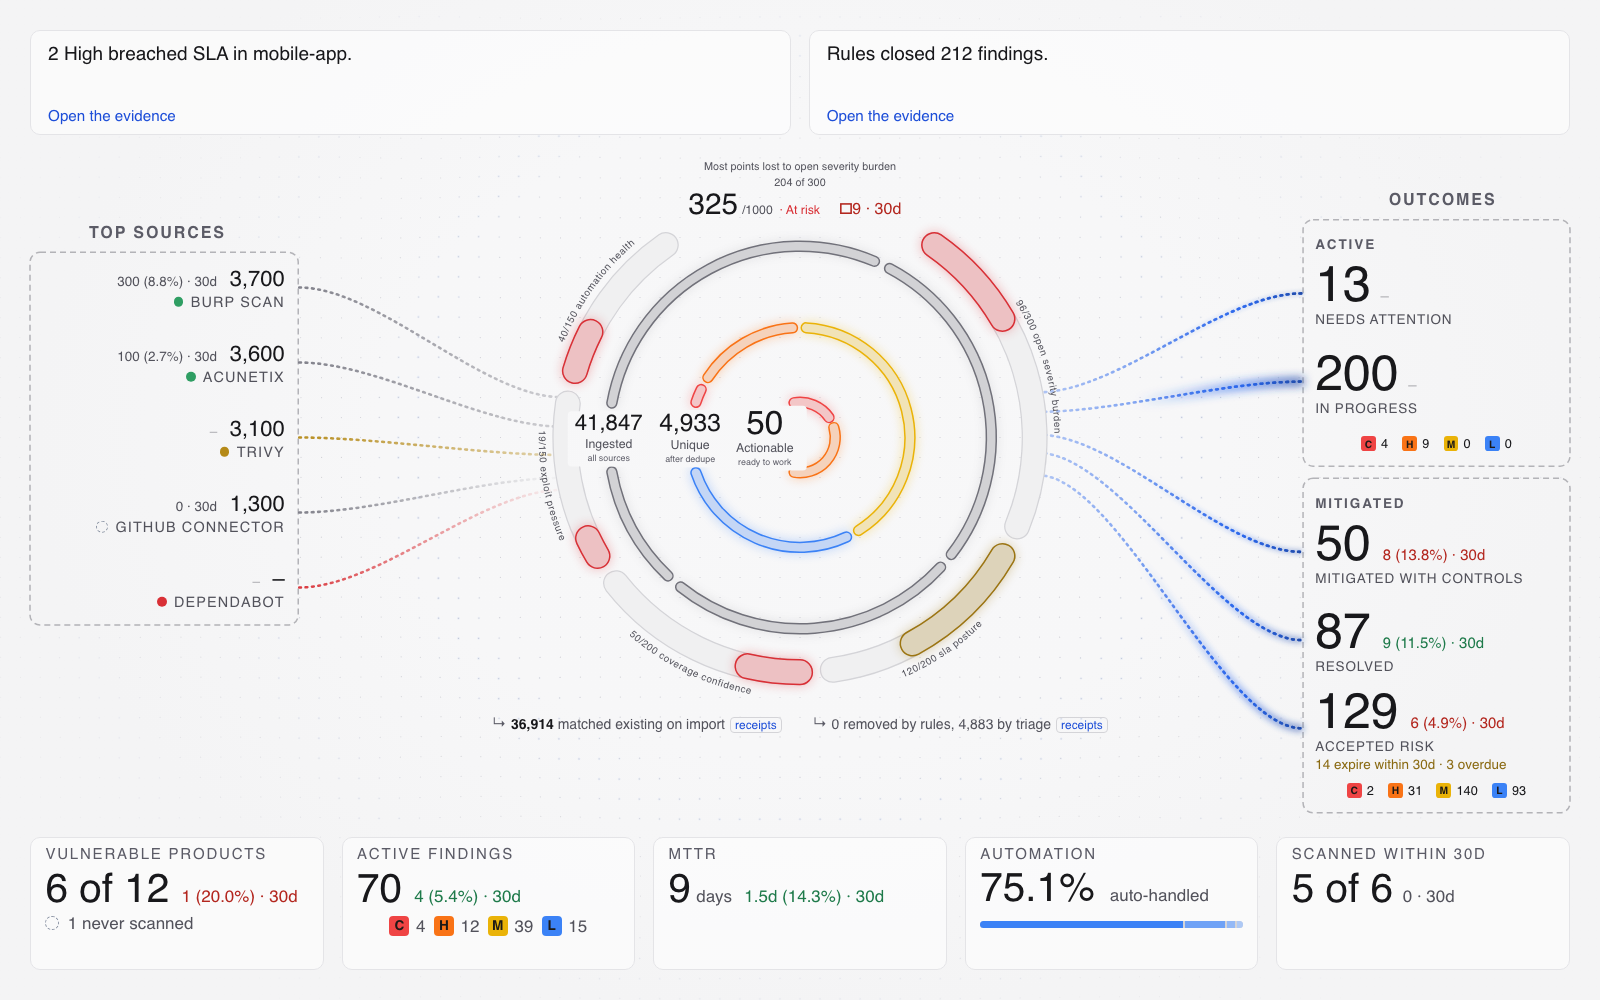
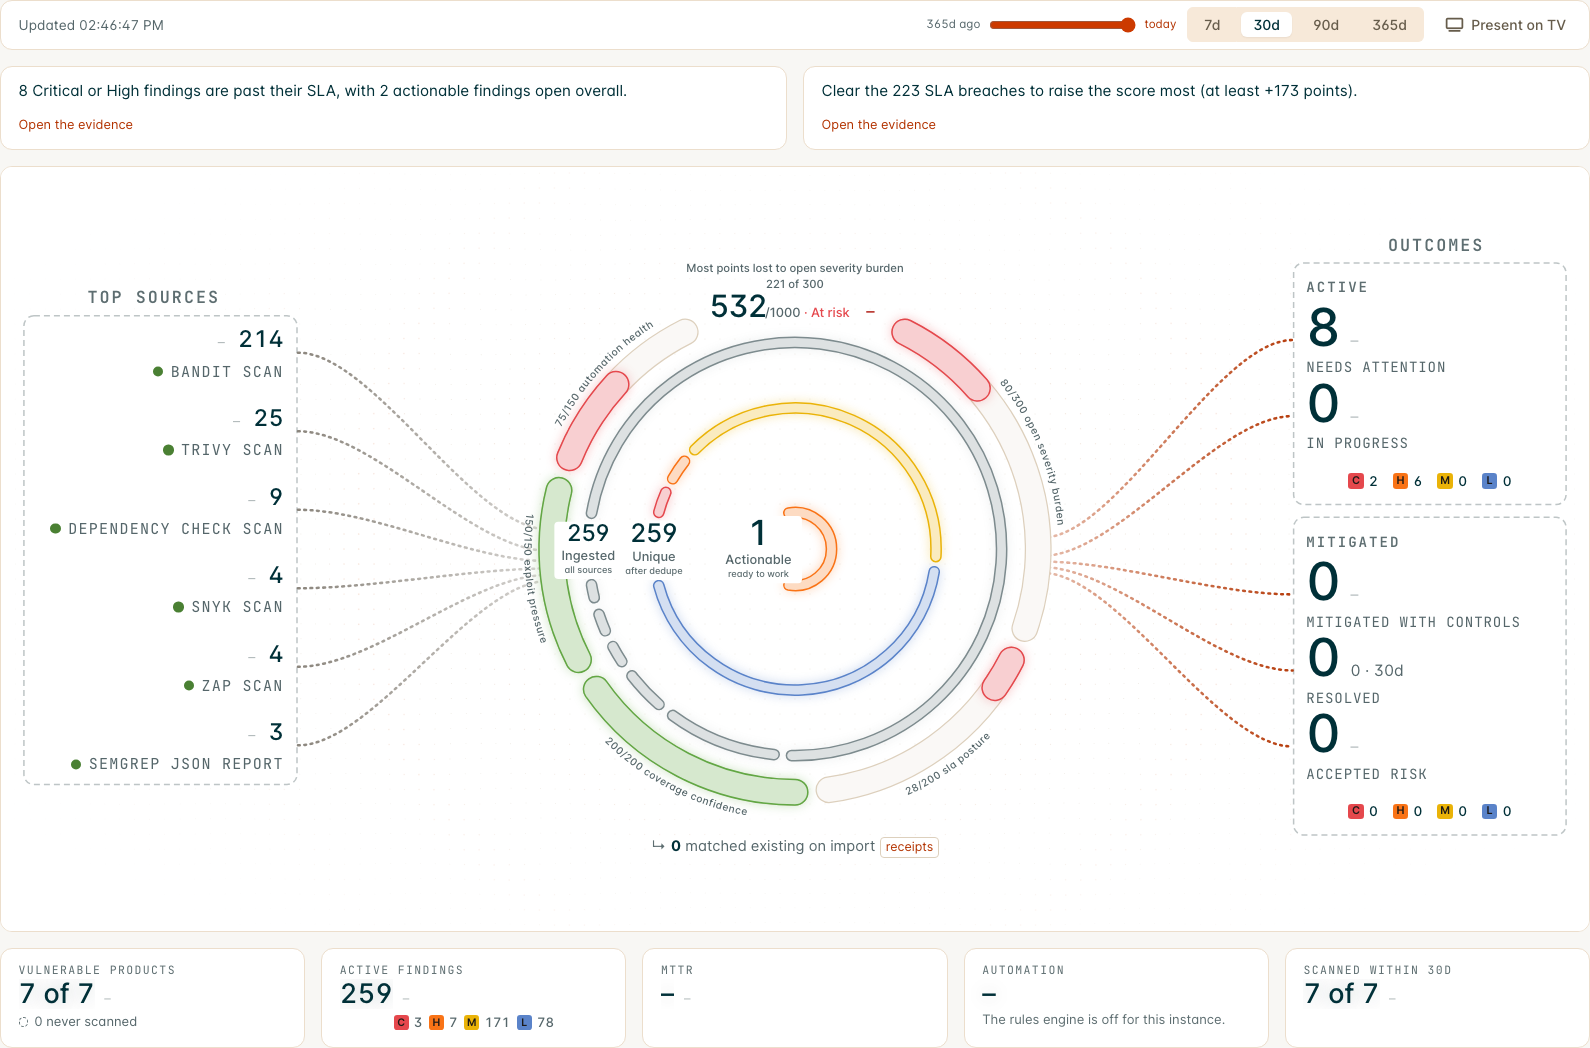
docs(dashboards): Command Center rows and the teal secondary color (#16172)
The Command Center page now shows its controls, brief, scene and strip
as four rows of cards, with the brief sharing its row evenly and both
rails centred on the ring. The screenshot shows the new layout.

The Appearance page now says which colors the primary drives: buttons
and the current nav item on the DefectDojo preset, which draws links,
selection, focus rings and checked controls in its teal secondary; the
Legacy preset keeps the primary on all of them.

diff --git a/docs/content/metrics_reports/dashboards/PRO__command_center.md b/docs/content/metrics_reports/dashboards/PRO__command_center.md
@@ -16,15 +16,15 @@ The Command Center is one composed screen that answers, in fixed zones, **what's
 
 ![The Command Center scene](images/command_center_scene.png)
 
-**Home** is the scene. It is read left to right:
+**Home** is the scene. On the page it is four rows, each a card of its own: the controls (the window, the history scrubber and **Present on TV**), the brief, the scene itself, and the strip. The scene is read left to right, with the sources and the outcomes both centred on the ring:
 
-* **The brief**: up to three grounded sentences as outlined cards across the top of the scene itself, every card a door to its evidence. When nothing changed since the previous snapshot, the row says so.
+* **The brief**: up to three grounded sentences as cards in a row above the scene, sharing the row evenly (one sentence spans it, three split it in thirds), every card a door to its evidence. When nothing changed since the previous snapshot, the row says so.
 * **Sources**: one row per scanner or connector with its volume in the window, its state, and its change against the previous window. Each row stacks its volume over the tool's name, right-aligned to a gap before its ribbon, inside a faint dashed, unfilled box under a bold **Top sources** title (the rail keeps the twelve largest sources and folds the rest into one row), mirroring the two family boxes on the right. Each ribbon is a dashed line of short, rounded dashes, every line the same weight (volume is carried by the beam's glow, below), dim neutral gray on the sources side (raw volume is not a signal), the accent blue on the outcomes side. A source that has stopped reporting draws as dashes that fade along their length; a source whose last run failed fades in the down color, and a source with failed imports draws in the warning color. The screen shows when it is blind rather than letting silence read as clean.
 * **The flow**: three nested rings for **ingested**, **unique after dedupe** and **actionable now**, sized by the square root of their counts so a dominant stage does not blank the others, with the 0 to 1000 [posture score](../posture-score/) as the outer ring. The score ring is split into its five published components, each a band outlined at full strength over a translucent fill (the way the Insights charts draw a bar), gray for the component's full weight and the band color for the points it earned, with the value and its 30-day change on the rim. Each component's caption follows its arc just outside the ring, points earned over weight then its name ("37/300 open severity burden"), so the whole formula reads around the ring. Hovering a sector brings it into focus: it takes more of the ring and its band grows outward while the others give way, and a card beside it says the points it earned and is leaving on the table, the input it was scored on, the move that would raise it most with the points that move is worth, and the formula's own sentence about it. The **Why this score** drawer carries the full breakdown and every lever, and says when it is loading or could not load. The screen carries one continuous motion: a beam through the ribbons, from the sources into the ring and out to the outcomes, the way the data itself moves. The rings beat with it: as the lit window passes through the centre, the score ring, the three flow rings and the ground behind them brighten together and settle as it leaves, so the whole instrument pulses once per pass of the data rather than on a clock of its own. The beam is a lit window that sweeps the stage left to right once every few seconds: as it passes, each line's own dashes brighten (the light end of the neutrals on the sources side, off-white on a dark screen and gray on a light one, and the accent's bright tone on the outcomes side) under a soft glow, then settle back to dim. A line in the warning or down color lights in its own color. Nothing is added to the line; the line itself lights up. Volume is the glow: the line carrying the most on its side burns widest and brightest as the beam passes, a line carrying a tenth of that barely warms, and a source with nothing in the window, or one whose last run failed, carries none. Each ring carries a second line saying what it counts: **all sources**, **after dedupe**, **ready to work**, and each tells a story in arcs around its circumference. The ingested ring divides by source (who fed the window, and how unevenly), in the neutral gray family; hovering a source in the rail lights its arc. The unique ring divides by severity, Critical to Low in the severity colors, so the ring itself shows how much red mass came in new this window. The actionable ring divides by risk band, Urgent then Needs Action, in the instance's risk colors (the same colors as the risk tags and charts elsewhere in the app), so it shows how urgent what is ready to work is. Every arc is a door onto its own slice of the ring's list (that source's findings, new findings of that severity, actionable findings in that band). Hovering an arc brings it into focus the way a score sector does, with a card beside it naming the ring and the slice, the count, its share of the ring and where its door opens; while any segment of any ring is in focus, the other rings stand aside in grey. A ring with nothing to divide draws whole, and a replayed day draws its rings whole because the breakdowns come from the live findings. A ring whose count is zero draws quiet in the track color rather than glowing as if it carried volume, and hovering a source in the rail lights that source's share of the ingested ring as an arc. The score names its band next to the value (Strong, Needs attention, At risk) and, above it, the component costing it the most points. When the scene arrives, and whenever the window, scope or replayed day changes, the counts ease to their values and the rings and ribbons grow into shape rather than jumping (a source that leaves the window counts down and goes, one that arrives counts up, and a window with no imports says so in the sources rail); the beam and the beat it drives are the only continuous motion, and a reduced motion preference snaps the transitions and turns them off.
 * **Receipts**: the two gaps in the flow are itemized under the rings. "Matched existing on import" is the importer's own dedupe and opens the import receipts export; "removed by rules" opens the rules receipts. The rules receipt is shown only when the instance has the rules engine switched on. When the ledgers describe different populations the remainder reads "unattributed", never an invented number.
 * **Automation**: a card in the strip. Its number is the share of work the rules handled; under it, one thin bar divided into a section per rule action the rules engine took in the window (closed, marked duplicate, status changed, updated, created, reopened, notified), each section sized by its count, busiest first. The bar carries no words or counts, so it reads the same at any volume. Hovering the card gives the full breakdown in the bar's order: every action with its exact count, each a door to the rules receipts for that action, then the total by rules and the manual closures. Closed, marked duplicate and notified are always listed, even at zero. When the instance has the rules engine switched off, the card says so and draws no bar. "Marked duplicate" counts rules that marked a finding as a duplicate; the importer's dedupe is not a rule action and shows under the rings as matched existing on import, so the two numbers are different ledgers and are not expected to agree.
 * **Outcomes**: **Needs attention** (open, past SLA, Critical or High, plus any open known-exploited finding), **In progress** (under review, with a claimed review, or with a ticket), **Mitigated with controls** (risk acceptances with a Mitigate decision), **Resolved** (mitigated in the window), and **Accepted risk**, which carries a clock: how many acceptances expire within 30 days and how many are already past their date and unhandled, in the warning color, never severity red. The five read as two families first, **Active** (Needs attention, In progress) and **Mitigated** (Mitigated with controls, Resolved, Accepted risk): each bucket has its own ribbon from the ring, and each family sits in its own dashed, unfilled box on the stack, headed, with the ribbons ending where the box begins, and with the family's findings by severity as a row of tags gathered at the foot of the box (a union counted once, so a finding that is both past SLA and under review counts one). Severity is always drawn the same way on this screen: the first letter in a small tag of the severity's color (Low in the blue the rest of the app gives it), the count beside it in plain text. Counts start a gap after the ribbons end, under an Outcomes title centred on the stack. The headings carry no number, because a sum would mix findings with acceptances and would have no single list to open.
-* **The strip**: five outlined cards: vulnerable assets (with never-scanned assets as their own hollow segment, never green and never merged with zero findings), active findings with severity chips, median time to remediate, automation (above), and assets scanned within 30 days.
+* **The strip**: a row of five cards under the scene: vulnerable assets (with never-scanned assets as their own hollow segment, never green and never merged with zero findings), active findings with severity chips, median time to remediate, automation (above), and assets scanned within 30 days.
 
 Every number on the screen carries a delta against the previous equivalent window, and every number is a door. Every delta names its window. A number the ledgers cannot support is a dash, never a zero.
 

diff --git a/docs/content/admin/appearance/PRO__appearance.md b/docs/content/admin/appearance/PRO__appearance.md
@@ -21,14 +21,14 @@ It also decides which mode you are editing: the Interface Colors section changes
 
 The preset is the starting point for every color on the page.
 
-* **DefectDojo** is the current DefectDojo look: warm surfaces in light mode, deep teal in dark mode, and an orange accent.
+* **DefectDojo** is the current DefectDojo look: warm surfaces in light mode, deep teal in dark mode, an orange accent for actions, and a teal secondary for links, selection, focus rings, and checked controls.
 * **Legacy** is the previous blue and gray look.
 
 Colors you have customized are kept when you switch presets. **Reset All Colors** clears every customized color and returns to the preset, without changing which preset is selected.
 
 ## Primary color
 
-The primary color is used for buttons, links, highlights, and focus states. You pick one color and a full range of lighter and darker shades is generated from it for both modes.
+The primary color is used for buttons and for the current page in the navigation. With the **Legacy** preset it also colors links, selection, focus rings, and checked controls such as checkboxes and toggles. The **DefectDojo** preset draws those in its teal secondary instead (a dark teal in light mode, a pale teal in dark mode), so the primary color stays the color of actions. You pick one color and a full range of lighter and darker shades is generated from it for both modes.
 
 The text shown on buttons is chosen for you so that it stays readable against the primary color you pick, in both light and dark mode.
 
